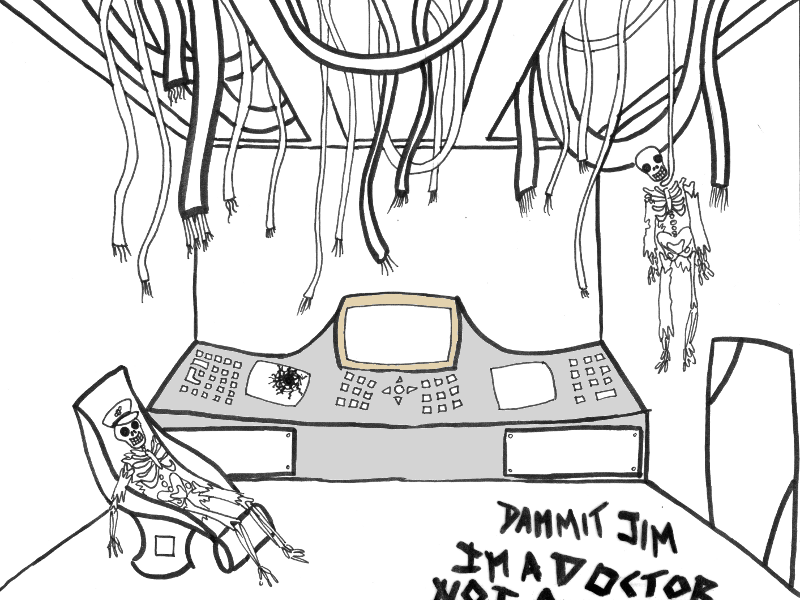
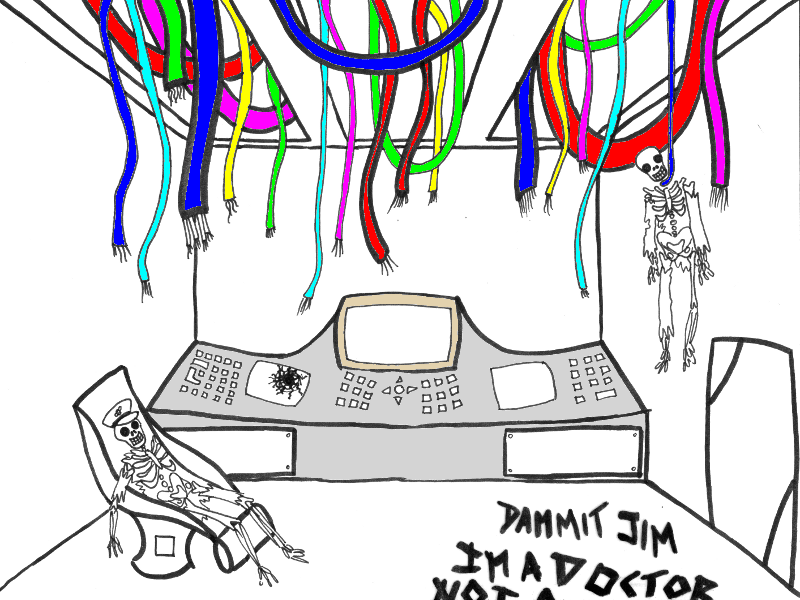
coloured wires in bridge

diff --git a/gamelib/scenes/bridge.py b/gamelib/scenes/bridge.py
@@ -43,6 +43,15 @@ class Bridge(Scene):
         self.add_thing(BridgeComputer())
         self.add_thing(LeftLights())
         self.add_thing(RightLights())
+        self.add_thing(GenericDescThing('bridge.wires', 1,
+            "The brightly coloured wires contrast with the drab walls",
+            ((46, 4, 711, 143),)))
+        self.add_thing(GenericDescThing('bridge.note', 2,
+            "\"Dammit JIM, I'm a doctor, not an engineer\"",
+            (
+                (491, 494, 194, 105),
+                (422, 533, 71, 66),
+                )))
 
     def enter(self):
         pieces = [get_music(x, prefix='sounds') for x in self.MUSIC]
